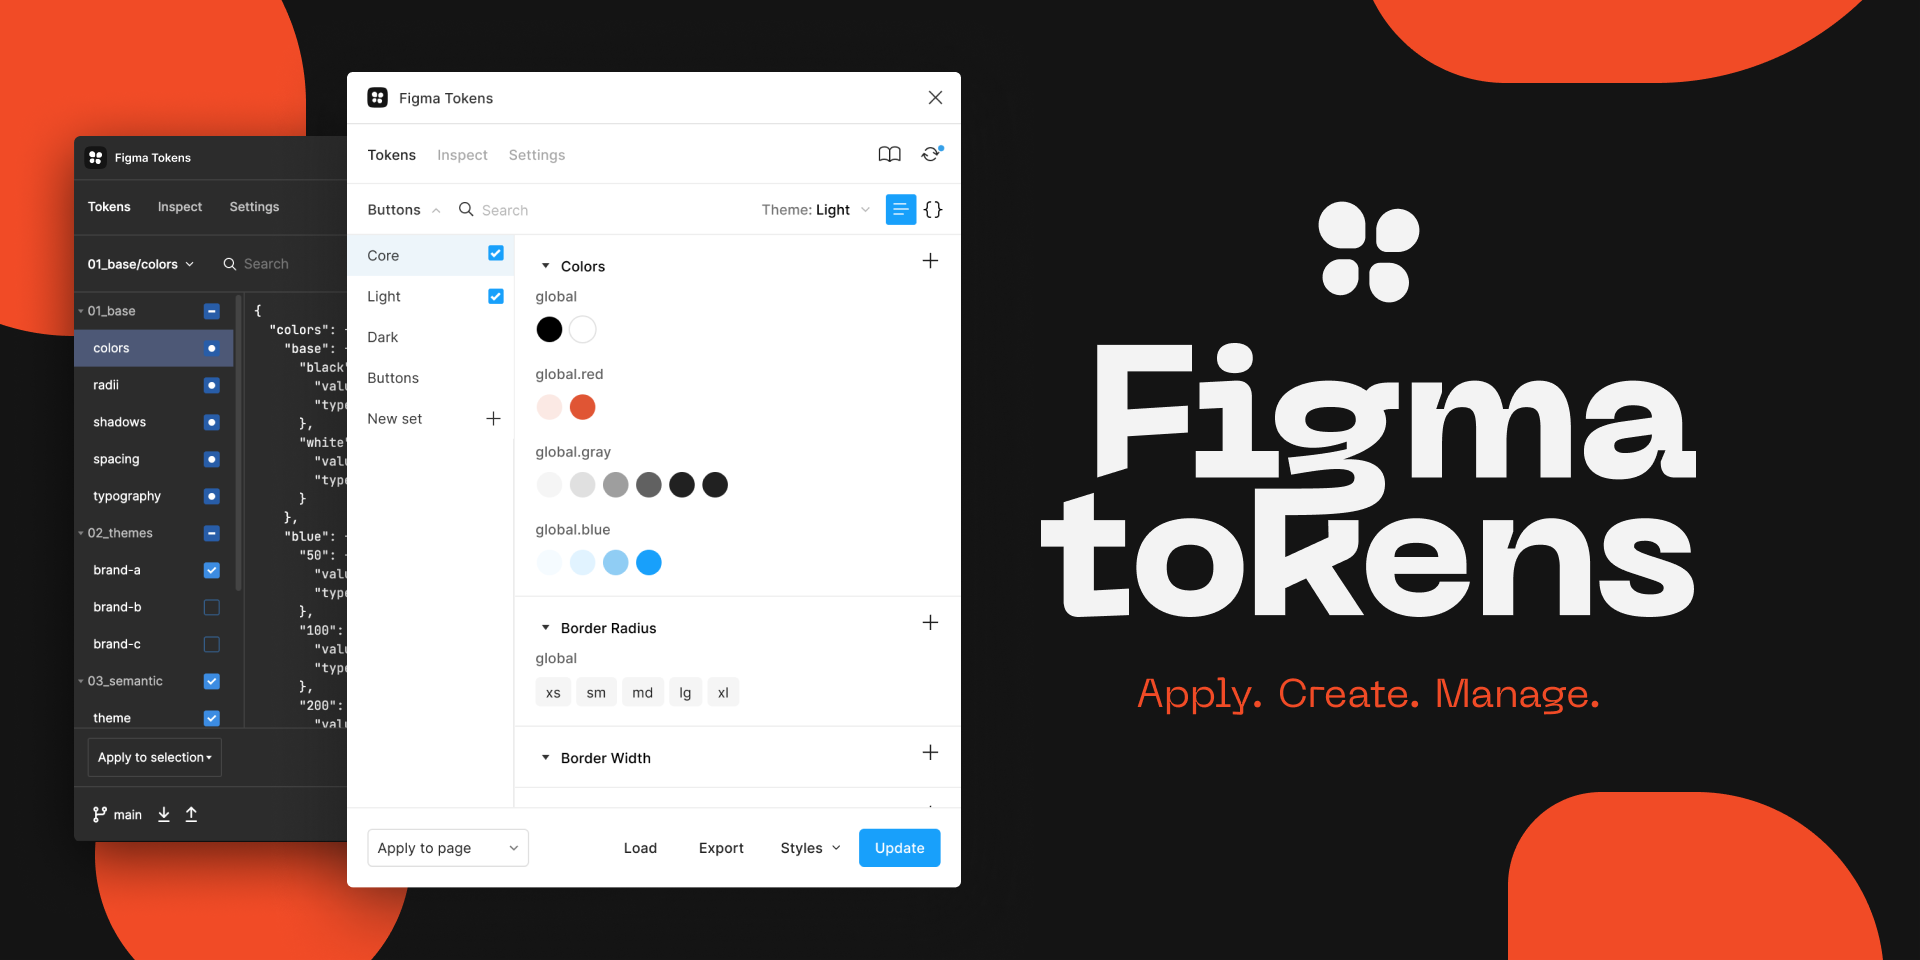
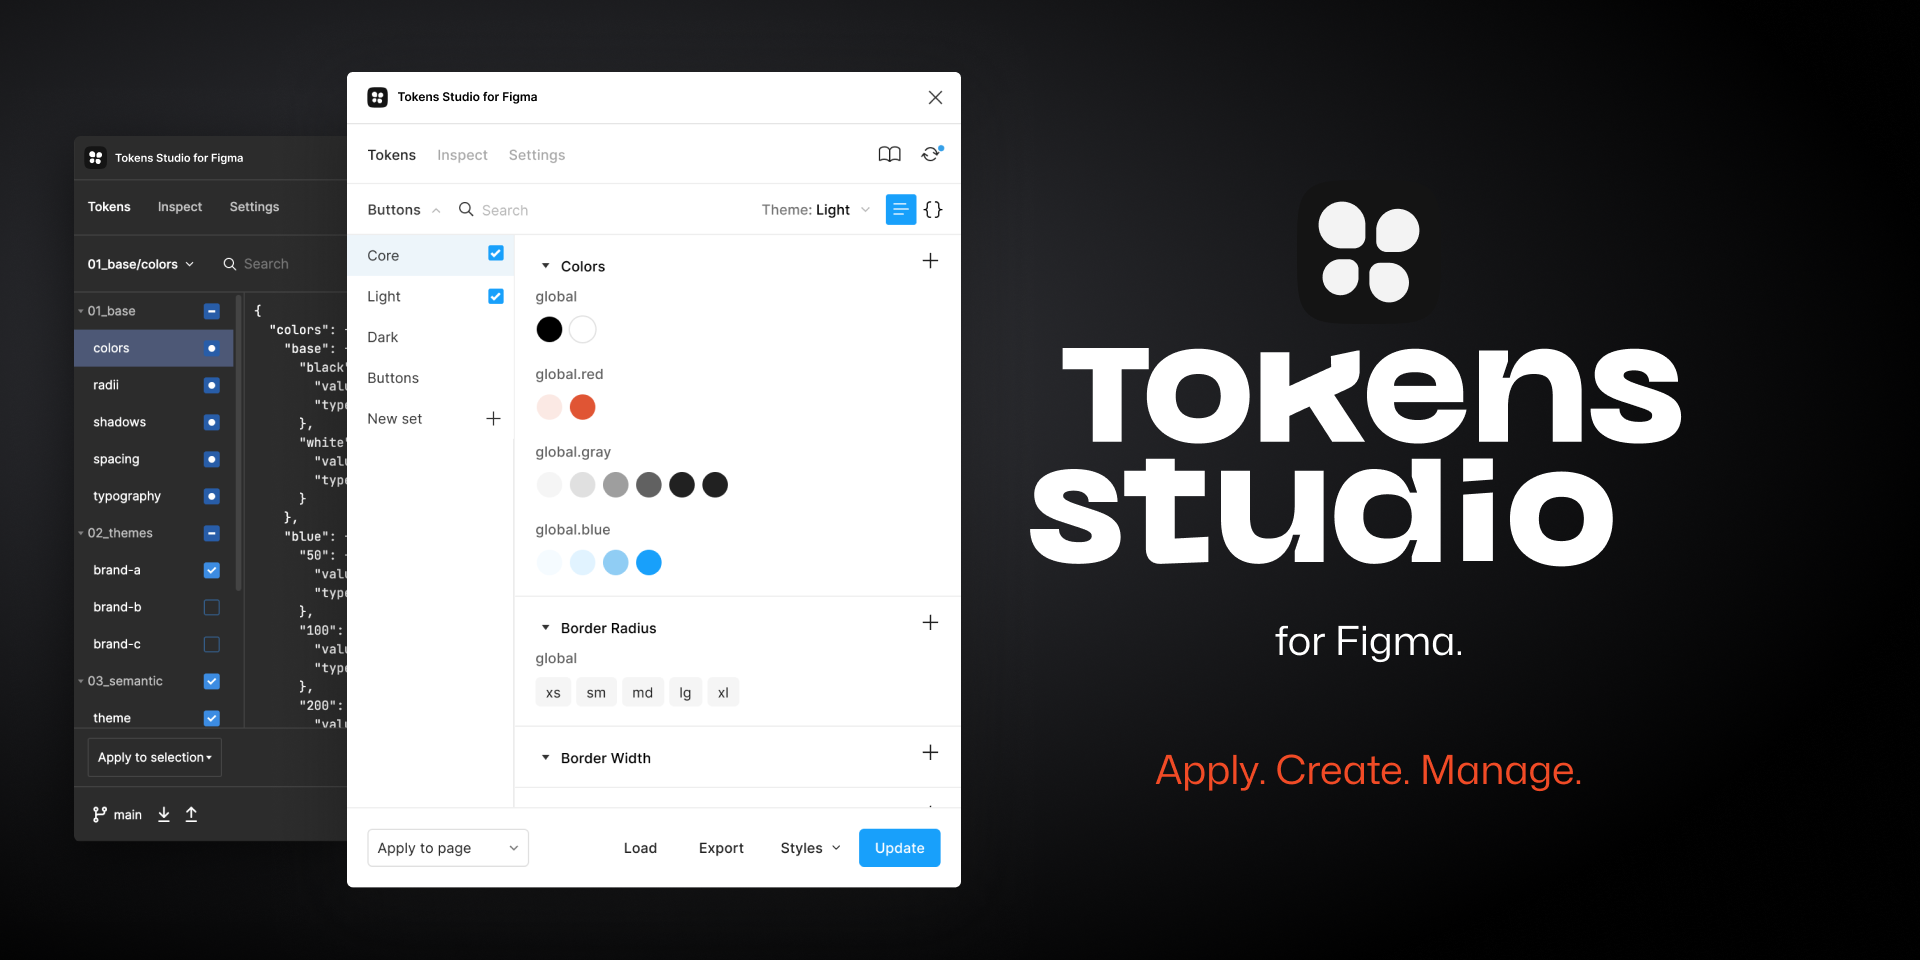
Rebrand (#54)
* replace Figma Tokens with Tokens Studio for Figma

* replace figmatokens.com

* replace repository

* replace url

* replace name and links

* add title image

diff --git a/theme.config.js b/theme.config.js
@@ -10,16 +10,16 @@ const Slack = () => (
 );
 
 export default {
-  projectLink: 'https://github.com/six7/figma-tokens',
-  projectChatLink: 'https://figmatokens.com/slack',
+  projectLink: 'https://github.com/tokens-studio/figma-plugin',
+  projectChatLink: 'https://tokens.studio/slack',
   projectChatLinkIcon: <Slack />,
-  docsRepositoryBase: 'https://github.com/six7/figma-tokens-docs/blob/master',
-  titleSuffix: ' – Figma Tokens',
+  docsRepositoryBase: 'https://github.com/tokens-studio/figma-plugin-docs/blob/master',
+  titleSuffix: ' – Tokens Studio for Figma',
   chat: false,
   logo: (
     <>
-      <img src="/logo.svg" alt="Figma Tokens" className="mr-2"/>
-      <span className="mr-2 font-extrabold hidden md:inline">Figma Tokens</span>
+      <img src="/logo.svg" alt="Tokens Studio for Figma Logo" className="mr-2"/>
+      <span className="mr-2 font-extrabold hidden md:inline">Tokens Studio for Figma</span>
       <span className="opacity-75 font-normal hidden md:inline">
         Docs
       </span>
@@ -30,23 +30,23 @@ export default {
     
     const lastDot = route.lastIndexOf('.')
     const path = route === '/index' ? '/' : route.slice(0, lastDot)
-    const ogImage = `https://img.websnap.app/?url=https://docs.figmatokens.com${path}&token=D5rpX7VfD3dACoyb&viewport_width=1200&viewport_height=630`;
-    const ogTitle = title ? `${title} – Figma Tokens Docs` : 'Figma Tokens Docs';
+    const ogImage = `https://img.websnap.app/?url=https://docs.tokens.studio${path}&token=D5rpX7VfD3dACoyb&viewport_width=1200&viewport_height=630`;
+    const ogTitle = title ? `${title} – Tokens Studio for Figma Docs` : 'Tokens Studio for Figma Docs';
     return (
       <>
         <meta name="msapplication-TileColor" content="#ffffff" />
         <meta name="theme-color" content="#000000" />
         <meta name="viewport" content="width=device-width, initial-scale=1.0" />
         <meta httpEquiv="Content-Language" content="en" />
-        <meta name="description" content="Figma Tokens: Plugin Docs" />
-        <meta name="og:description" content="Figma Tokens: Plugin Docs" />
+        <meta name="description" content="Tokens Studio for Figma: Plugin Docs" />
+        <meta name="og:description" content="Tokens Studio for Figma: Plugin Docs" />
         <meta name="twitter:card" content="summary_large_image" />
         <meta name="twitter:image" content={ogImage} />
-        <meta name="twitter:site:domain" content="docs.figmatokens.com" />
-        <meta name="twitter:url" content="https://docs.figmatokens.com" />
+        <meta name="twitter:site:domain" content="docs.tokens.studio" />
+        <meta name="twitter:url" content="https://docs.tokens.studio" />
         <meta name="og:title" content={ogTitle} />
         <meta name="og:image" content={ogImage} />
-        <meta name="apple-mobile-web-app-title" content="Figma Tokens Docs" />
+        <meta name="apple-mobile-web-app-title" content="Tokens Studio for Figma Docs" />
         <link rel="apple-touch-icon" sizes="180x180" href="/apple-icon-180x180.png"/>
         <link rel="icon" type="image/png" sizes="192x192"  href="/android-icon-192x192.png"/>
         <link rel="icon" type="image/png" sizes="32x32" href="/favicon-32x32.png"/>

diff --git a/pages/contributing/shared-data.pt-br.md b/pages/contributing/shared-data.pt-br.md
@@ -1,6 +1,6 @@
 # Dados compartilhados
 
-Acreditamos que os dados armazenados pelo Figma Tokens também devem ser acessíveis por outros fabricantes de plugins, para criar um ecossistema próspero de ferramentas que possam se comunicar umas com as outras. Imagine um mundo onde somos capazes de armazenar dados de plugins em uma camada ou documento, e outros plugins podem fazer o backup e fazer as coisas que seus plugins fazem melhor. É por isso que abrimos os dados do plug-in que o Figma Tokens armazena em seu documento ou nós para que você também possa usá-lo com outros plug-ins.
+Acreditamos que os dados armazenados pelo Tokens Studio for Figma também devem ser acessíveis por outros fabricantes de plugins, para criar um ecossistema próspero de ferramentas que possam se comunicar umas com as outras. Imagine um mundo onde somos capazes de armazenar dados de plugins em uma camada ou documento, e outros plugins podem fazer o backup e fazer as coisas que seus plugins fazem melhor. É por isso que abrimos os dados do plug-in que o Tokens Studio for Figma armazena em seu documento ou nós para que você também possa usá-lo com outros plug-ins.
 
 ### Como funciona?
 Estamos armazenando tokens em um documento de dados de plug-in compartilhado em `tokens`. Outros plugins podem ler a partir daí. 
@@ -14,14 +14,14 @@ Também estamos armazenando decisões aplicadas em cada nó (node) no mesmo nome
 `node.getSharedPluginData("tokens", key)` fornece o token que foi aplicado nesse `nó` para essa `chave`. Para descobrir quais `keys` estão disponíveis, você deve primeiro executar `node.getSharedPluginDataKeys("tokens")` no `node` para descobrir quais `keys` estão definidas. Com esse resultado você pode consultar os tokens armazenados.
 
 #### Aplicando tokens em uma camada
-`node.setSharedPluginData("tokens", key, value)` permite armazenar um token em uma camada. Você precisa ter certeza de que `key` é [qualquer uma das chaves de dados do plug-in](https://github.com/six7/figma-tokens/blob/main/src/config/properties.js) que nós esta usando.
+`node.setSharedPluginData("tokens", key, value)` permite armazenar um token em uma camada. Você precisa ter certeza de que `key` é [qualquer uma das chaves de dados do plug-in](https://github.com/tokens-studio/figma-plugin/blob/main/src/config/properties.js) que nós esta usando.
 
 ### Ajudantes de Tokens Figma
-Nós [criamos uma ferramenta](https://www.npmjs.com/package/@six7/figma-tokens-helpers) que permite que você leia todos os itens acima com mais facilidade em seu próprio plugin. Estamos expondo funções que envolvem nossas funções de dados de plugins, para que você possa facilmente obter tokens armazenados no documento, na camada e até mesmo obter os tokens resolvidos levando em consideração os conjuntos/temas ativados!
+Nós [criamos uma ferramenta](https://www.npmjs.com/package/@tokens-studio/figma-plugin-helpers) que permite que você leia todos os itens acima com mais facilidade em seu próprio plugin. Estamos expondo funções que envolvem nossas funções de dados de plugins, para que você possa facilmente obter tokens armazenados no documento, na camada e até mesmo obter os tokens resolvidos levando em consideração os conjuntos/temas ativados!
 
 ### Exemplos de integrações com outros Plugins
 #### Automator
 O Automator é capaz de ler e escrever no espaço compartilhado do plugin. Você pode criar todos os tipos de automações malucas - você pode até criar conjuntos inteiros de tokens usando o Automator. Nós até [criamos uma automação que cria automaticamente a documentação](https://automator.community/automation/create-documentation-for-figma-tokens) para você!
 
 #### Pro Layout Panel
-O que tornaria um ótimo aprimoramento de layout automático ainda melhor? A capacidade de escolher tokens de design como seus valores de espaçamento. [Pro Layout Panel](https://www.mrbiscuit.design) permite que você faça isso, então você pode usar os tokens que você criou no Figma Tokens e aplicá-los (usando a última combinação de conjunto usada no Figma Tokens)
+O que tornaria um ótimo aprimoramento de layout automático ainda melhor? A capacidade de escolher tokens de design como seus valores de espaçamento. [Pro Layout Panel](https://www.mrbiscuit.design) permite que você faça isso, então você pode usar os tokens que você criou no Tokens Studio for Figma e aplicá-los (usando a última combinação de conjunto usada no Tokens Studio for Figma)

diff --git a/pages/contributing/shared-data.en.md b/pages/contributing/shared-data.en.md
@@ -1,6 +1,6 @@
 # Shared data
 
-We believe data stored by Figma Tokens should be accessible by other plugin makers as well, to create a thriving ecosystem of tools all being able to communicate with one another. Imagine a world where we're able to store plugin data on a layer or document, and other plugins can pick that back up, and do the things their plugin does best. This is why we've opened up the plugin data that Figma Tokens stores on your document or nodes so you can use it with other plugins as well.
+We believe data stored by the plugin should be accessible by other plugin makers as well, to create a thriving ecosystem of tools all being able to communicate with one another. Imagine a world where we're able to store plugin data on a layer or document, and other plugins can pick that back up, and do the things their plugin does best. This is why we've opened up the plugin data that the plugin stores on your document or nodes so you can use it with other plugins as well.
 
 ### How does it work?
 We're storing tokens stored on a document on the shared plugin data namespace `tokens`. Other plugins can read from that. Also, we're storing applied decisions on each node on the same shared namespace. All you'd need to do is find out what tokens are stored on a node. Figma provides a couple of helpful functions to do so.
@@ -12,14 +12,14 @@ We're storing tokens stored on a document on the shared plugin data namespace `t
 `node.getSharedPluginData("tokens", key)` gives you the token that was applied on that `node` for that `key`. To find out what `keys` are available, you'd first run `node.getSharedPluginDataKeys("tokens")` on the `node` to find out what `keys` are set. With that result you're able to query the stored tokens.
 
 #### Applying tokens on a layer
-`node.setSharedPluginData("tokens", key, value)` allows you to store a token on a layer. You'd need to make sure that `key` is [any of the plugin data keys](https://github.com/six7/figma-tokens/blob/main/src/config/properties.js) that we're using.
+`node.setSharedPluginData("tokens", key, value)` allows you to store a token on a layer. You'd need to make sure that `key` is [any of the plugin data keys](https://github.com/tokens-studio/figma-plugin/blob/main/src/config/properties.js) that we're using.
 
-### Figma Tokens Helpers
-We've [built a tool](https://www.npmjs.com/package/@six7/figma-tokens-helpers) that allows you to read all of the above more easily in your own plugin. We're exposing functions that wrap our plugin data functions, so you can easily get tokens stored on the document, on the layer, and even get the resolved tokens taking the activated sets/themes into account!
+### Figma Plugin Helpers
+We've [built a tool](https://www.npmjs.com/package/@tokens-studio/figma-plugin-helpers) that allows you to read all of the above more easily in your own plugin. We're exposing functions that wrap our plugin data functions, so you can easily get tokens stored on the document, on the layer, and even get the resolved tokens taking the activated sets/themes into account!
 
 ### Examples
 #### Automator
 Automator is able to read and write to the shared plugin space. You could create all kinds of crazy automations - you could even create whole token sets using Automator. We've even [built an automation that automatically creates Documentation](https://automator.community/automation/create-documentation-for-figma-tokens) for you!
 
 #### Pro Layout Panel
-What would make a really great Auto Layout enhancement even greater? The ability to choose from design tokens as your spacing values. [Pro Layout Panel](https://www.mrbiscuit.design) allows you to do that, so you can use the tokens you created in Figma Tokens and apply those (using the last used set combination in Figma Tokens)
+What would make a really great Auto Layout enhancement even greater? The ability to choose from design tokens as your spacing values. [Pro Layout Panel](https://www.mrbiscuit.design) allows you to do that, so you can use the tokens you created in Tokens Studio for Figma and apply those (using the last used set combination in Tokens Studio for Figma)

diff --git a/pages/tokens/aliases.pt-br.md b/pages/tokens/aliases.pt-br.md
@@ -1,6 +1,6 @@
 # Apelidos (Aliases)
 
-A coisa legal sobre Figma Tokens é que você pode fazer referência a outros tokens como um valor para seus tokens (ou, como podemos chamar, seus estilos). Isso significa que você pode fazer com que a cor de sua marca seja uma referência a `colors.red.500`, ou ter um token de fundo que obtém seu valor de um token de `colors.black` enquanto um token de primeiro plano obtém seu valor de um token `colors.white`.
+A coisa legal sobre Tokens Studio for Figma é que você pode fazer referência a outros tokens como um valor para seus tokens (ou, como podemos chamar, seus estilos). Isso significa que você pode fazer com que a cor de sua marca seja uma referência a `colors.red.500`, ou ter um token de fundo que obtém seu valor de um token de `colors.black` enquanto um token de primeiro plano obtém seu valor de um token `colors.white`.
 
 Para usar um alias em seus tokens, nós os escrevemos na seguinte notação: `$spacing.sm`
 

diff --git a/pages/styles/styles.pt-br.md b/pages/styles/styles.pt-br.md
@@ -156,7 +156,7 @@ A importação de estilos resultante deve pareecer um conjunto de tokens semelha
 
 É claro que você quer que seus estilos sejam atualizados sempre que atualizar seus tokens. Para fazer isso, é importante manter a estrutura de nomenclatura dos tokens igual aos seus estilos no Figma. Ou seja, se você renomear quaisquer tokens, certifique-se de renomear suas contrapartes de estilos também.
 
-Se você criar um novo estilo posteriormente e quiser mantê-lo em tokens, crie-o no Figma Tokens e use o botão `Create Styles`, ao invés de aplicar Import Styles novamente.
+Se você criar um novo estilo posteriormente e quiser mantê-lo em tokens, crie-o no Tokens Studio for Figma e use o botão `Create Styles`, ao invés de aplicar Import Styles novamente.
 
 `Create Styles` basicamente diz ao Figma para criar qualquer estilo que não exista.
 

diff --git a/pages/contributing/beta-builds.pt-br.md b/pages/contributing/beta-builds.pt-br.md
@@ -18,4 +18,4 @@ Em seguida, clique em `Choose a manifest.json file` e navegue até o local onde 
 
 ![](/choose-manifest.jpg)
 
-É isso! Agora você tem uma compilação de desenvolvimento do Figma Tokens. Comece clicando com o botão direito em qualquer lugar em um documento e escolha `Plugins > Figma Tokens (Dev)`
+É isso! Agora você tem uma compilação de desenvolvimento do Tokens Studio for Figma. Comece clicando com o botão direito em qualquer lugar em um documento e escolha `Plugins > Tokens Studio for Figma (Dev)`

diff --git a/readme.md b/readme.md
@@ -1,6 +1,6 @@
-# Figma Tokens Documentation
+# Tokens Studio for Figma Documentation
 
-This is the source code for the documentation of the open source plugin [Figma Tokens](https://github.com/six7/figma-tokens)
+This is the source code for the documentation of the open source plugin [Tokens Studio for Figma](https://github.com/tokens-studio/figma-plugin)
 
 Built with [Nextra](https://github.com/shuding/nextra)
 

diff --git a/pages/available-tokens/available-tokens.pt-br.md b/pages/available-tokens/available-tokens.pt-br.md
@@ -1,6 +1,6 @@
 # Tokens Disponíveis
 
-No plugin Figma Tokens, você pode criar Design Tokens reutilizáveis e semânticos para seus processos de Design.
+No plugin Tokens Studio for Figma, você pode criar Design Tokens reutilizáveis e semânticos para seus processos de Design.
 
 Os grupos de tokens disponíveis até o momento são:
 

diff --git a/pages/contributing/contributing.pt-br.md b/pages/contributing/contributing.pt-br.md
@@ -1,6 +1,6 @@
 # Contribuindo
 
-Se você deseja começar a contribuir com o Figma Tokens, leia esta breve orientação que deve começar.
+Se você deseja começar a contribuir com o Tokens Studio for Figma, leia esta breve orientação que deve começar.
 
 1. Clone o repositório
 2. Execute o `yarn` para instalar as dependências

diff --git a/pages/contributing/contributing.en.md b/pages/contributing/contributing.en.md
@@ -1,6 +1,6 @@
 # Contributing
 
-If you want to get started contributing to Figma Tokens read this short guideline that should get you started.
+If you want to get started contributing to Tokens Studio for Figma read this short guideline that should get you started.
 
 1. Clone the repository
 2. Run `yarn` to install dependencies
